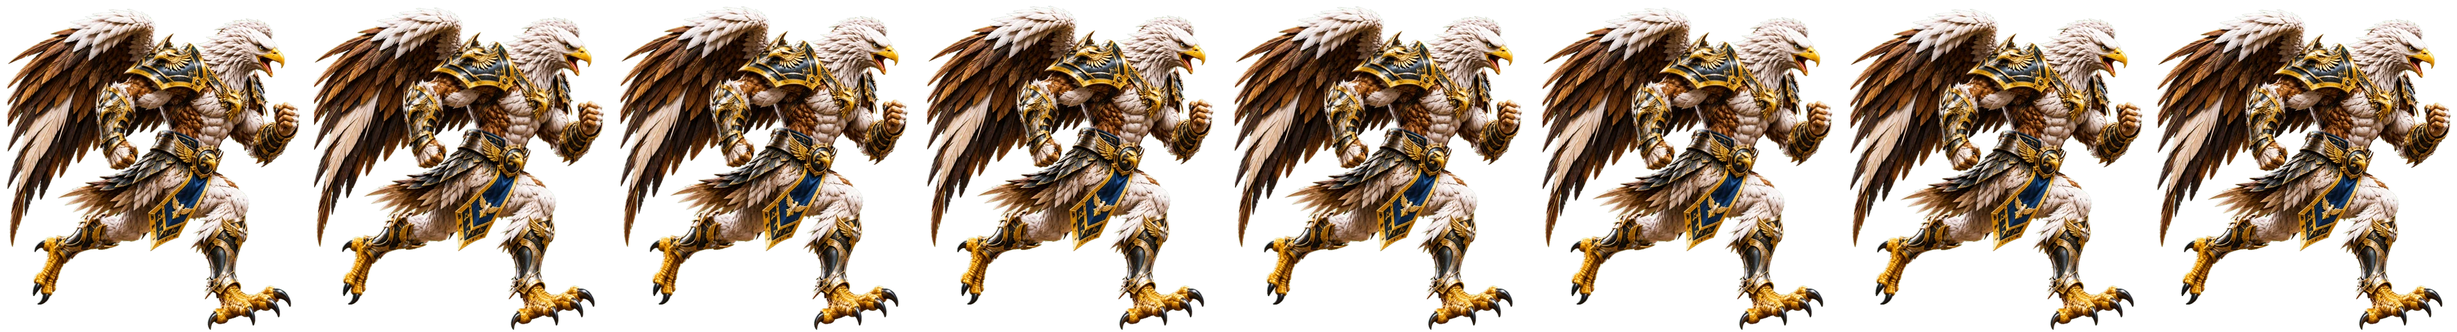
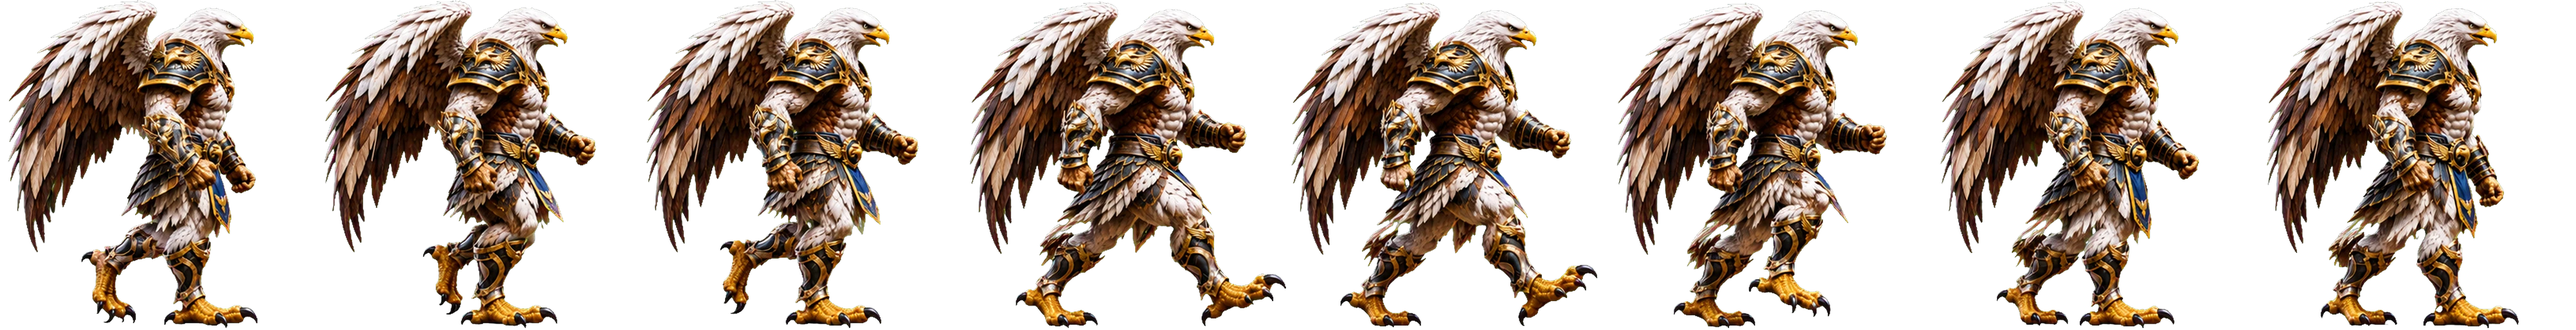
V2 preview 10.27: eagle upgraded moves (not live, still hidden)
Claude-Session: https://claude.ai/code/session_01Wp8cgZvzavvyA9CxcdgKRp

diff --git a/game/js/sprites-hd.js b/game/js/sprites-hd.js
@@ -1,2 +1,2 @@
 // High-detail fighter frames (frames-hd/), used on large/sharp screens. Same layout as SPRITES.
-const SPRITES_HD={"badger":{"s":2.0,"anims":{"idle":[16,363,425,20,211],"walk_forward":[8,301,413,70,205],"walk_back":[8,301,413,70,205],"run":[8,301,413,70,205],"block":[6,374,428,21,212],"attack_light":[8,423,419,103,208],"bite":[8,364,423,92,210],"claw_swipe":[6,423,419,103,208],"attack_heavy":[8,375,518,92,257],"uppercut":[8,423,419,103,208],"pounce":[8,364,423,92,210],"special_earth_slam":[7,375,518,92,257],"shadow_rampage":[10,423,419,103,208],"victory":[8,283,476,70,236],"jump":[7,370,409,96,203],"crouch":[4,370,409,96,203],"hit_light":[4,363,423,20,210],"hit_heavy":[6,363,423,20,210],"knockdown":[9,586,417,85,207],"knockdown_getup":[6,339,413,86,205],"defeat":[5,586,417,85,207]}},"crocodile":{"s":2.0,"anims":{"idle":[16,658,534,187,264],"walk_forward":[8,608,531,178,263],"walk_back":[8,608,531,178,263],"run":[8,608,531,178,263],"block":[6,617,527,168,261],"attack_light":[8,751,527,215,261],"bite":[8,682,533,187,264],"special_pounce":[6,751,527,215,261],"attack_heavy":[8,848,567,214,281],"uppercut":[7,848,567,214,281],"victory":[8,559,554,150,274],"jump":[7,794,476,233,235],"hit_light":[4,653,531,187,263],"hit_heavy":[6,653,531,187,263],"knockdown":[9,975,530,141,263],"knockdown_getup":[6,1340,513,355,254],"defeat":[5,975,530,141,263]}},"elephant":{"s":2.0,"anims":{"idle":[16,725,684,177,339],"walk_forward":[8,788,690,175,341],"walk_back":[8,788,690,175,341],"run":[8,788,690,175,341],"block":[6,717,696,179,344],"attack_light":[8,1010,683,214,338],"bite":[8,768,683,185,338],"special_pounce":[6,1010,683,214,338],"attack_heavy":[8,1018,727,253,360],"uppercut":[7,1018,727,253,360],"victory":[8,768,683,185,338],"jump":[7,717,696,179,344],"hit_light":[4,724,682,178,337],"hit_heavy":[6,724,682,178,337],"knockdown":[9,1092,696,385,345],"knockdown_getup":[6,1092,696,385,345],"defeat":[5,1092,696,385,345]}},"grizzly":{"s":2.0,"anims":{"idle":[16,484,632,126,314],"walk_forward":[8,561,633,92,314],"walk_back":[8,561,633,92,314],"run":[8,561,633,92,314],"block":[6,518,624,129,310],"attack_light":[8,587,631,161,313],"bite":[8,511,630,132,313],"special_pounce":[6,587,631,161,313],"attack_heavy":[8,570,632,142,314],"uppercut":[7,570,632,142,314],"victory":[8,570,632,142,314],"jump":[7,518,624,129,310],"hit_light":[4,485,629,127,312],"hit_heavy":[6,485,629,127,312],"knockdown":[9,804,634,94,315],"knockdown_getup":[6,804,634,94,315],"defeat":[5,804,634,94,315]}},"hippo":{"s":2.0,"anims":{"idle":[16,743,653,181,323],"walk_forward":[8,458,633,110,313],"walk_back":[8,458,633,110,313],"run":[8,458,633,110,313],"block":[6,684,640,170,316],"attack_light":[8,1009,649,213,321],"bite":[8,788,652,189,323],"special_pounce":[6,1009,649,213,321],"attack_heavy":[8,571,745,156,369],"uppercut":[7,571,745,156,369],"victory":[8,486,742,120,368],"jump":[7,532,648,126,320],"hit_light":[4,747,650,184,322],"hit_heavy":[6,747,650,184,322],"knockdown":[9,1058,681,164,338],"knockdown_getup":[6,552,632,123,312],"defeat":[5,1058,681,164,338]}},"hyena":{"s":2.0,"anims":{"idle":[16,337,491,83,243],"walk_forward":[8,397,486,111,241],"walk_back":[8,397,486,111,241],"run":[8,397,486,111,241],"block":[6,400,486,100,241],"attack_light":[8,451,479,112,238],"bite":[8,355,489,87,243],"special_pounce":[6,355,489,87,243],"attack_heavy":[8,398,431,99,214],"uppercut":[7,451,479,112,238],"victory":[8,355,489,87,243],"jump":[7,400,486,100,241],"hit_light":[4,338,488,84,242],"hit_heavy":[6,338,488,84,242],"knockdown":[9,633,490,78,243],"knockdown_getup":[6,633,490,78,243],"defeat":[5,633,490,78,243]}},"jaguar":{"s":2.0,"anims":{"idle":[16,539,506,129,251],"walk_forward":[8,406,473,72,234],"walk_back":[8,406,473,72,234],"run":[8,406,473,72,234],"block":[6,354,501,25,248],"attack_light":[8,483,488,131,242],"bite":[8,558,504,129,250],"special_pounce":[6,483,488,131,242],"attack_heavy":[8,581,421,132,208],"uppercut":[7,581,421,132,208],"victory":[8,558,504,129,250],"jump":[7,354,501,25,248],"hit_light":[4,537,504,128,250],"hit_heavy":[6,537,504,128,250],"knockdown":[9,719,518,244,257],"knockdown_getup":[6,719,518,244,257],"defeat":[5,719,518,244,257]}},"leopard":{"s":2.0,"anims":{"idle":[16,471,515,22,255],"walk_forward":[8,307,485,87,240],"walk_back":[8,307,485,87,240],"run":[8,307,485,87,240],"dash":[4,307,485,87,240],"crouch":[3,428,517,102,256],"block":[6,443,509,31,253],"attack_light":[8,482,494,122,245],"bite":[8,482,514,22,255],"special_pounce":[6,482,494,122,245],"special_b":[8,482,514,22,255],"special_c":[5,482,494,122,245],"special_d":[14,482,494,122,245],"ultra_move":[5,452,555,97,276],"attack_heavy":[8,452,555,97,276],"uppercut":[7,452,555,97,276],"victory":[8,375,543,102,269],"jump":[7,428,517,102,256],"hit_light":[4,470,513,22,255],"hit_heavy":[6,470,513,22,255],"knockdown":[9,868,555,240,276],"knockdown_getup":[6,432,450,101,223],"defeat":[5,868,555,240,276]}},"lion":{"s":2.0,"anims":{"idle":[16,386,563,98,271],"walk_forward":[8,239,525,65,261],"walk_back":[8,239,525,65,261],"run":[8,239,525,65,261],"block":[6,382,412,96,204],"attack_light":[8,740,471,151,234],"bite":[8,740,471,151,234],"special_pounce":[6,740,471,151,234],"attack_heavy":[8,463,623,109,309],"uppercut":[7,463,623,109,309],"victory":[8,357,530,91,263],"jump":[7,452,422,111,209],"hit_light":[4,367,533,94,265],"hit_heavy":[6,367,533,94,265],"knockdown":[9,694,536,268,267],"knockdown_getup":[5,751,565,269,271],"defeat":[5,694,536,268,267]}},"tiger":{"s":2.0,"anims":{"idle":[16,499,538,126,267],"walk_forward":[8,508,526,125,261],"walk_back":[8,508,526,125,261],"run":[8,508,526,125,261],"block":[6,483,530,120,263],"attack_light":[8,520,524,132,260],"bite":[8,518,537,127,266],"special_pounce":[6,520,524,132,260],"attack_heavy":[8,713,548,164,272],"uppercut":[7,713,548,164,272],"victory":[8,459,544,114,270],"jump":[7,623,588,160,292],"hit_light":[4,496,536,126,266],"hit_heavy":[6,496,536,126,266],"knockdown":[9,750,543,261,270],"knockdown_getup":[6,600,526,141,261],"defeat":[5,750,543,261,270]}},"wolf":{"s":2.0,"anims":{"idle":[16,409,498,107,247],"walk_forward":[8,467,408,96,202],"walk_back":[8,467,408,96,202],"run":[8,467,408,96,202],"block":[6,404,490,104,244],"attack_light":[8,445,398,123,197],"bite":[8,447,340,119,168],"special_pounce":[6,447,340,119,168],"attack_heavy":[8,363,395,93,196],"uppercut":[7,363,395,93,196],"victory":[8,447,340,119,168],"jump":[7,404,490,104,244],"hit_light":[4,404,497,104,247],"hit_heavy":[6,404,497,104,247],"knockdown":[9,670,503,243,250],"knockdown_getup":[6,670,503,243,250],"defeat":[5,670,503,243,250]}},"majic":{"s":2.0,"anims":{"idle":[16,742,799,187,396],"walk_forward":[8,818,805,185,399],"walk_back":[8,818,805,185,399],"run":[8,818,805,185,399],"dash":[4,818,805,185,399],"crouch":[3,783,702,200,348],"block":[6,739,792,62,393],"attack_light":[8,808,714,216,354],"bite":[8,773,798,193,396],"special_pounce":[6,773,798,193,396],"special_b":[6,808,714,216,354],"special_c":[5,773,798,193,396],"special_d":[5,749,763,180,379],"ultra_move":[10,808,714,216,354],"attack_heavy":[8,749,763,180,379],"uppercut":[7,749,763,180,379],"victory":[8,823,812,205,403],"jump":[7,783,702,200,348],"hit_light":[4,746,795,190,395],"hit_heavy":[6,746,795,190,395],"knockdown":[9,1082,819,398,407],"knockdown_getup":[6,793,780,206,387],"defeat":[5,1082,819,398,407]}},"snake":{"s":2.0,"anims":{"idle":[16,498,552,122,274],"walk_forward":[8,525,525,147,261],"walk_back":[8,525,525,147,261],"run":[8,525,525,147,261],"crouch":[3,533,495,126,245],"block":[6,469,547,25,272],"attack_light":[8,532,537,123,267],"bite":[8,498,551,122,274],"special_pounce":[6,498,551,122,274],"special_b":[6,532,537,123,267],"special_c":[5,498,551,122,274],"special_d":[5,600,546,143,271],"ultra_move":[10,532,537,123,267],"attack_heavy":[8,600,546,143,271],"uppercut":[7,600,546,143,271],"victory":[8,412,570,105,283],"jump":[7,533,495,126,245],"hit_light":[4,498,550,122,273],"hit_heavy":[6,498,550,122,273],"knockdown":[9,778,548,271,272],"knockdown_getup":[6,609,538,125,267],"defeat":[5,778,548,271,272]}},"eagle":{"s":2.0,"anims":{"idle":[16,486,526,121,261],"walk_forward":[8,478,518,190,257],"walk_back":[8,478,518,190,257],"run":[8,478,518,190,257],"crouch":[3,483,520,108,258],"block":[6,483,520,108,258],"attack_light":[8,500,526,124,261],"bite":[8,502,525,125,260],"special_pounce":[6,502,525,125,260],"special_b":[6,500,526,124,261],"ultra_move":[10,500,526,124,261],"attack_heavy":[8,497,530,123,263],"uppercut":[7,497,530,123,263],"victory":[8,486,526,121,261],"jump":[7,483,520,108,258],"hit_light":[4,487,522,122,259],"hit_heavy":[6,487,522,122,259],"knockdown":[9,692,536,255,266],"knockdown_getup":[6,692,536,255,266],"defeat":[5,692,536,255,266]}},"stag":{"s":2.0,"anims":{"idle":[16,341,572,85,283],"walk_forward":[8,450,569,111,282],"walk_back":[8,450,569,111,282],"run":[8,450,569,111,282],"crouch":[3,543,734,154,365],"block":[6,453,553,113,274],"attack_light":[8,539,540,118,268],"bite":[8,358,571,85,283],"special_pounce":[6,358,571,85,283],"special_b":[6,539,540,118,268],"special_c":[5,358,571,85,283],"special_d":[5,453,612,113,304],"ultra_move":[10,539,540,118,268],"attack_heavy":[8,453,612,113,304],"uppercut":[7,453,612,113,304],"victory":[8,512,565,127,280],"jump":[7,543,734,154,365],"hit_light":[4,341,570,85,282],"hit_heavy":[6,341,570,85,282],"knockdown":[9,734,584,285,290],"knockdown_getup":[6,507,558,164,277],"defeat":[5,734,584,285,290]}}};
+const SPRITES_HD={"badger":{"s":2.0,"anims":{"idle":[16,363,425,20,211],"walk_forward":[8,301,413,70,205],"walk_back":[8,301,413,70,205],"run":[8,301,413,70,205],"block":[6,374,428,21,212],"attack_light":[8,423,419,103,208],"bite":[8,364,423,92,210],"claw_swipe":[6,423,419,103,208],"attack_heavy":[8,375,518,92,257],"uppercut":[8,423,419,103,208],"pounce":[8,364,423,92,210],"special_earth_slam":[7,375,518,92,257],"shadow_rampage":[10,423,419,103,208],"victory":[8,283,476,70,236],"jump":[7,370,409,96,203],"crouch":[4,370,409,96,203],"hit_light":[4,363,423,20,210],"hit_heavy":[6,363,423,20,210],"knockdown":[9,586,417,85,207],"knockdown_getup":[6,339,413,86,205],"defeat":[5,586,417,85,207]}},"crocodile":{"s":2.0,"anims":{"idle":[16,658,534,187,264],"walk_forward":[8,608,531,178,263],"walk_back":[8,608,531,178,263],"run":[8,608,531,178,263],"block":[6,617,527,168,261],"attack_light":[8,751,527,215,261],"bite":[8,682,533,187,264],"special_pounce":[6,751,527,215,261],"attack_heavy":[8,848,567,214,281],"uppercut":[7,848,567,214,281],"victory":[8,559,554,150,274],"jump":[7,794,476,233,235],"hit_light":[4,653,531,187,263],"hit_heavy":[6,653,531,187,263],"knockdown":[9,975,530,141,263],"knockdown_getup":[6,1340,513,355,254],"defeat":[5,975,530,141,263]}},"elephant":{"s":2.0,"anims":{"idle":[16,725,684,177,339],"walk_forward":[8,788,690,175,341],"walk_back":[8,788,690,175,341],"run":[8,788,690,175,341],"block":[6,717,696,179,344],"attack_light":[8,1010,683,214,338],"bite":[8,768,683,185,338],"special_pounce":[6,1010,683,214,338],"attack_heavy":[8,1018,727,253,360],"uppercut":[7,1018,727,253,360],"victory":[8,768,683,185,338],"jump":[7,717,696,179,344],"hit_light":[4,724,682,178,337],"hit_heavy":[6,724,682,178,337],"knockdown":[9,1092,696,385,345],"knockdown_getup":[6,1092,696,385,345],"defeat":[5,1092,696,385,345]}},"grizzly":{"s":2.0,"anims":{"idle":[16,484,632,126,314],"walk_forward":[8,561,633,92,314],"walk_back":[8,561,633,92,314],"run":[8,561,633,92,314],"block":[6,518,624,129,310],"attack_light":[8,587,631,161,313],"bite":[8,511,630,132,313],"special_pounce":[6,587,631,161,313],"attack_heavy":[8,570,632,142,314],"uppercut":[7,570,632,142,314],"victory":[8,570,632,142,314],"jump":[7,518,624,129,310],"hit_light":[4,485,629,127,312],"hit_heavy":[6,485,629,127,312],"knockdown":[9,804,634,94,315],"knockdown_getup":[6,804,634,94,315],"defeat":[5,804,634,94,315]}},"hippo":{"s":2.0,"anims":{"idle":[16,743,653,181,323],"walk_forward":[8,458,633,110,313],"walk_back":[8,458,633,110,313],"run":[8,458,633,110,313],"block":[6,684,640,170,316],"attack_light":[8,1009,649,213,321],"bite":[8,788,652,189,323],"special_pounce":[6,1009,649,213,321],"attack_heavy":[8,571,745,156,369],"uppercut":[7,571,745,156,369],"victory":[8,486,742,120,368],"jump":[7,532,648,126,320],"hit_light":[4,747,650,184,322],"hit_heavy":[6,747,650,184,322],"knockdown":[9,1058,681,164,338],"knockdown_getup":[6,552,632,123,312],"defeat":[5,1058,681,164,338]}},"hyena":{"s":2.0,"anims":{"idle":[16,337,491,83,243],"walk_forward":[8,397,486,111,241],"walk_back":[8,397,486,111,241],"run":[8,397,486,111,241],"block":[6,400,486,100,241],"attack_light":[8,451,479,112,238],"bite":[8,355,489,87,243],"special_pounce":[6,355,489,87,243],"attack_heavy":[8,398,431,99,214],"uppercut":[7,451,479,112,238],"victory":[8,355,489,87,243],"jump":[7,400,486,100,241],"hit_light":[4,338,488,84,242],"hit_heavy":[6,338,488,84,242],"knockdown":[9,633,490,78,243],"knockdown_getup":[6,633,490,78,243],"defeat":[5,633,490,78,243]}},"jaguar":{"s":2.0,"anims":{"idle":[16,539,506,129,251],"walk_forward":[8,406,473,72,234],"walk_back":[8,406,473,72,234],"run":[8,406,473,72,234],"block":[6,354,501,25,248],"attack_light":[8,483,488,131,242],"bite":[8,558,504,129,250],"special_pounce":[6,483,488,131,242],"attack_heavy":[8,581,421,132,208],"uppercut":[7,581,421,132,208],"victory":[8,558,504,129,250],"jump":[7,354,501,25,248],"hit_light":[4,537,504,128,250],"hit_heavy":[6,537,504,128,250],"knockdown":[9,719,518,244,257],"knockdown_getup":[6,719,518,244,257],"defeat":[5,719,518,244,257]}},"leopard":{"s":2.0,"anims":{"idle":[16,471,515,22,255],"walk_forward":[8,307,485,87,240],"walk_back":[8,307,485,87,240],"run":[8,307,485,87,240],"dash":[4,307,485,87,240],"crouch":[3,428,517,102,256],"block":[6,443,509,31,253],"attack_light":[8,482,494,122,245],"bite":[8,482,514,22,255],"special_pounce":[6,482,494,122,245],"special_b":[8,482,514,22,255],"special_c":[5,482,494,122,245],"special_d":[14,482,494,122,245],"ultra_move":[5,452,555,97,276],"attack_heavy":[8,452,555,97,276],"uppercut":[7,452,555,97,276],"victory":[8,375,543,102,269],"jump":[7,428,517,102,256],"hit_light":[4,470,513,22,255],"hit_heavy":[6,470,513,22,255],"knockdown":[9,868,555,240,276],"knockdown_getup":[6,432,450,101,223],"defeat":[5,868,555,240,276]}},"lion":{"s":2.0,"anims":{"idle":[16,386,563,98,271],"walk_forward":[8,239,525,65,261],"walk_back":[8,239,525,65,261],"run":[8,239,525,65,261],"block":[6,382,412,96,204],"attack_light":[8,740,471,151,234],"bite":[8,740,471,151,234],"special_pounce":[6,740,471,151,234],"attack_heavy":[8,463,623,109,309],"uppercut":[7,463,623,109,309],"victory":[8,357,530,91,263],"jump":[7,452,422,111,209],"hit_light":[4,367,533,94,265],"hit_heavy":[6,367,533,94,265],"knockdown":[9,694,536,268,267],"knockdown_getup":[5,751,565,269,271],"defeat":[5,694,536,268,267]}},"tiger":{"s":2.0,"anims":{"idle":[16,499,538,126,267],"walk_forward":[8,508,526,125,261],"walk_back":[8,508,526,125,261],"run":[8,508,526,125,261],"block":[6,483,530,120,263],"attack_light":[8,520,524,132,260],"bite":[8,518,537,127,266],"special_pounce":[6,520,524,132,260],"attack_heavy":[8,713,548,164,272],"uppercut":[7,713,548,164,272],"victory":[8,459,544,114,270],"jump":[7,623,588,160,292],"hit_light":[4,496,536,126,266],"hit_heavy":[6,496,536,126,266],"knockdown":[9,750,543,261,270],"knockdown_getup":[6,600,526,141,261],"defeat":[5,750,543,261,270]}},"wolf":{"s":2.0,"anims":{"idle":[16,409,498,107,247],"walk_forward":[8,467,408,96,202],"walk_back":[8,467,408,96,202],"run":[8,467,408,96,202],"block":[6,404,490,104,244],"attack_light":[8,445,398,123,197],"bite":[8,447,340,119,168],"special_pounce":[6,447,340,119,168],"attack_heavy":[8,363,395,93,196],"uppercut":[7,363,395,93,196],"victory":[8,447,340,119,168],"jump":[7,404,490,104,244],"hit_light":[4,404,497,104,247],"hit_heavy":[6,404,497,104,247],"knockdown":[9,670,503,243,250],"knockdown_getup":[6,670,503,243,250],"defeat":[5,670,503,243,250]}},"majic":{"s":2.0,"anims":{"idle":[16,742,799,187,396],"walk_forward":[8,818,805,185,399],"walk_back":[8,818,805,185,399],"run":[8,818,805,185,399],"dash":[4,818,805,185,399],"crouch":[3,783,702,200,348],"block":[6,739,792,62,393],"attack_light":[8,808,714,216,354],"bite":[8,773,798,193,396],"special_pounce":[6,773,798,193,396],"special_b":[6,808,714,216,354],"special_c":[5,773,798,193,396],"special_d":[5,749,763,180,379],"ultra_move":[10,808,714,216,354],"attack_heavy":[8,749,763,180,379],"uppercut":[7,749,763,180,379],"victory":[8,823,812,205,403],"jump":[7,783,702,200,348],"hit_light":[4,746,795,190,395],"hit_heavy":[6,746,795,190,395],"knockdown":[9,1082,819,398,407],"knockdown_getup":[6,793,780,206,387],"defeat":[5,1082,819,398,407]}},"snake":{"s":2.0,"anims":{"idle":[16,498,552,122,274],"walk_forward":[8,525,525,147,261],"walk_back":[8,525,525,147,261],"run":[8,525,525,147,261],"crouch":[3,533,495,126,245],"block":[6,469,547,25,272],"attack_light":[8,532,537,123,267],"bite":[8,498,551,122,274],"special_pounce":[6,498,551,122,274],"special_b":[6,532,537,123,267],"special_c":[5,498,551,122,274],"special_d":[5,600,546,143,271],"ultra_move":[10,532,537,123,267],"attack_heavy":[8,600,546,143,271],"uppercut":[7,600,546,143,271],"victory":[8,412,570,105,283],"jump":[7,533,495,126,245],"hit_light":[4,498,550,122,273],"hit_heavy":[6,498,550,122,273],"knockdown":[9,778,548,271,272],"knockdown_getup":[6,609,538,125,267],"defeat":[5,778,548,271,272]}},"eagle":{"s":2.0,"anims":{"idle":[16,486,526,121,261],"walk_forward":[8,501,514,100,255],"walk_back":[8,501,514,100,255],"run":[8,501,514,100,255],"crouch":[3,681,479,179,237],"block":[6,483,520,108,258],"attack_light":[8,500,526,124,261],"bite":[8,502,525,125,260],"special_pounce":[6,502,525,125,260],"special_b":[6,500,526,124,261],"ultra_move":[10,500,526,124,261],"attack_heavy":[8,603,494,151,245],"uppercut":[7,603,494,151,245],"victory":[8,550,541,139,269],"jump":[7,681,479,179,237],"hit_light":[4,487,522,122,259],"hit_heavy":[6,487,522,122,259],"knockdown":[9,692,536,255,266],"knockdown_getup":[6,480,513,99,255],"defeat":[5,692,536,255,266]}},"stag":{"s":2.0,"anims":{"idle":[16,341,572,85,283],"walk_forward":[8,450,569,111,282],"walk_back":[8,450,569,111,282],"run":[8,450,569,111,282],"crouch":[3,543,734,154,365],"block":[6,453,553,113,274],"attack_light":[8,539,540,118,268],"bite":[8,358,571,85,283],"special_pounce":[6,358,571,85,283],"special_b":[6,539,540,118,268],"special_c":[5,358,571,85,283],"special_d":[5,453,612,113,304],"ultra_move":[10,539,540,118,268],"attack_heavy":[8,453,612,113,304],"uppercut":[7,453,612,113,304],"victory":[8,512,565,127,280],"jump":[7,543,734,154,365],"hit_light":[4,341,570,85,282],"hit_heavy":[6,341,570,85,282],"knockdown":[9,734,584,285,290],"knockdown_getup":[6,507,558,164,277],"defeat":[5,734,584,285,290]}}};

diff --git a/game/js/game.js b/game/js/game.js
@@ -1664,9 +1664,9 @@ const SPRITES={
  snake:{s:0.6,anims:{"idle":[16,149,166,122,274],"walk_forward":[8,158,158,147,261],"walk_back":[8,158,158,147,261],"run":[8,158,158,147,261],"crouch":[3,160,148,126,245],"block":[6,141,164,25,272],"attack_light":[8,160,161,123,267],"bite":[8,149,165,122,274],"special_pounce":[6,149,165,122,274],"special_b":[6,160,161,123,267],"special_c":[5,149,165,122,274],"special_d":[5,180,164,143,271],"ultra_move":[10,160,161,123,267],"attack_heavy":[8,180,164,143,271],"uppercut":[7,180,164,143,271],"victory":[8,124,171,105,283],"jump":[7,160,148,126,245],"hit_light":[4,149,165,122,273],"hit_heavy":[6,149,165,122,273],"knockdown":[9,233,164,271,272],"knockdown_getup":[6,183,161,125,267],"defeat":[5,233,164,271,272]},
   double:['attack_heavy','attack_light'],special:'special_pounce',shadow:'special_b',ultra:['ultra_move','attack_heavy','bite','uppercut'],
   fall:['knockdown',[0,1,2,3,4,5]],getup:['knockdown_getup',[0,1,2,3,4,5]],ko:['knockdown',8]},
- eagle:{s:0.6,anims:{"idle":[16,146,158,121,261],"walk_forward":[8,143,155,190,257],"walk_back":[8,143,155,190,257],"run":[8,143,155,190,257],"crouch":[3,145,156,108,258],"block":[6,145,156,108,258],"attack_light":[8,150,158,124,261],"bite":[8,151,157,125,260],"special_pounce":[6,151,157,125,260],"special_b":[6,150,158,124,261],"ultra_move":[10,150,158,124,261],"attack_heavy":[8,149,159,123,263],"uppercut":[7,149,159,123,263],"victory":[8,146,158,121,261],"jump":[7,145,156,108,258],"hit_light":[4,146,157,122,259],"hit_heavy":[6,146,157,122,259],"knockdown":[9,208,161,255,266],"knockdown_getup":[6,208,161,255,266],"defeat":[5,208,161,255,266]},
+ eagle:{s:0.6,anims:{"idle":[16,146,158,121,261],"walk_forward":[8,150,154,100,255],"walk_back":[8,150,154,100,255],"run":[8,150,154,100,255],"crouch":[3,204,144,179,237],"block":[6,145,156,108,258],"attack_light":[8,150,158,124,261],"bite":[8,151,157,125,260],"special_pounce":[6,151,157,125,260],"special_b":[6,150,158,124,261],"ultra_move":[10,150,158,124,261],"attack_heavy":[8,181,148,151,245],"uppercut":[7,181,148,151,245],"victory":[8,165,162,139,269],"jump":[7,204,144,179,237],"hit_light":[4,146,157,122,259],"hit_heavy":[6,146,157,122,259],"knockdown":[9,208,161,255,266],"knockdown_getup":[6,144,154,99,255],"defeat":[5,208,161,255,266]},
   double:['attack_light','attack_heavy','special_b'],special:'special_pounce',shadow:'special_b',ultra:['ultra_move','attack_heavy','bite','uppercut'],
-  fall:['knockdown',[0,1,2,3,4,5]],getup:['knockdown',[7,3,2,1,0]],ko:['knockdown',8]},
+  fall:['knockdown',[0,1,2,3,4,5]],getup:['knockdown_getup',[0,1,2,3,4,5]],ko:['knockdown',8]},
  stag:{s:0.6,anims:{"idle":[16,102,171,85,283],"walk_forward":[8,135,171,111,282],"walk_back":[8,135,171,111,282],"run":[8,135,171,111,282],"crouch":[3,163,220,154,365],"block":[6,136,166,113,274],"attack_light":[8,162,162,118,268],"bite":[8,107,171,85,283],"special_pounce":[6,107,171,85,283],"special_b":[6,162,162,118,268],"special_c":[5,107,171,85,283],"special_d":[5,136,184,113,304],"ultra_move":[10,162,162,118,268],"attack_heavy":[8,136,184,113,304],"uppercut":[7,136,184,113,304],"victory":[8,154,169,127,280],"jump":[7,163,220,154,365],"hit_light":[4,102,171,85,282],"hit_heavy":[6,102,171,85,282],"knockdown":[9,220,175,285,290],"knockdown_getup":[6,152,167,164,277],"defeat":[5,220,175,285,290]},
   double:['attack_heavy','attack_light'],special:'special_pounce',shadow:'special_b',ultra:['ultra_move','attack_heavy','bite','uppercut'],
   fall:['knockdown',[0,1,2,3,4,5]],getup:['knockdown_getup',[0,1,2,3,4,5]],ko:['knockdown',8]},
@@ -1707,11 +1707,11 @@ const SPRITES={
   double:['attack_heavy','attack_light'],special:'special_pounce',shadow:null,ultra:['attack_light','attack_heavy','uppercut','bite'],
   fall:['knockdown',[0,1,2,3,4,5]],getup:['knockdown',[7,3,2,1,0]],ko:['knockdown',8]}
 };
-const spriteImg={};for(const id in SPRITES){spriteImg[id]={};for(const k in SPRITES[id].anims){const im=new Image();im.src='assets/characters/'+id+'/frames/'+k+'.webp?v=10.26';spriteImg[id][k]=im}}
+const spriteImg={};for(const id in SPRITES){spriteImg[id]={};for(const k in SPRITES[id].anims){const im=new Image();im.src='assets/characters/'+id+'/frames/'+k+'.webp?v=10.27';spriteImg[id][k]=im}}
 // High-detail art for big, sharp screens (laptops, TVs, 4K): loaded per fight, only for the two fighters in it.
 const HD=typeof SPRITES_HD!=='undefined'?SPRITES_HD:{},spriteHD={};
 function wantHD(){const r=$('game-canvas').getBoundingClientRect(),d=Math.min(window.devicePixelRatio||1,3);return r.height*d>=560}
-function loadHD(id){if(!HD[id]||spriteHD[id])return;spriteHD[id]={};for(const k in HD[id].anims){const im=new Image();im.decoding='async';im.src='assets/characters/'+id+'/frames-hd/'+k+'.webp?v=10.26';spriteHD[id][k]=im}}
+function loadHD(id){if(!HD[id]||spriteHD[id])return;spriteHD[id]={};for(const k in HD[id].anims){const im=new Image();im.decoding='async';im.src='assets/characters/'+id+'/frames-hd/'+k+'.webp?v=10.27';spriteHD[id][k]=im}}
 const c=$('game-canvas').getContext('2d');
 function draw(){
  const canvas=$('game-canvas'),rect=canvas.getBoundingClientRect(),dpr=Math.min(window.devicePixelRatio||1,3),w=1100,h=520;

diff --git a/game/index.html b/game/index.html
@@ -17,7 +17,7 @@
   s.addEventListener('pointerdown',go);addEventListener('keydown',function(e){if(!done){go(e)}},{capture:true,once:true});(function pad(){if(done)return;var g=navigator.getGamepads?[].slice.call(navigator.getGamepads()):[];if(g.some(function(x){return x&&x.buttons.some(function(b){return b.pressed})})){go();return}requestAnimationFrame(pad)})()})();</script>
   <div id="backdrop" aria-hidden="true"><div class="bd-img bd-a"></div><div class="bd-img bd-b"></div><div class="bd-rays"></div><div class="bd-vignette"></div><canvas id="bd-embers"></canvas></div>
   <main id="app">
-    <header class="topbar"><img class="brand-crown" src="assets/ui/crown.webp" alt=""><div><div class="eyebrow">A LEGACY UNLEASHED</div><h1>KING OF THE JUNGLE</h1></div><div class="build-tag">V2 PREVIEW · 10.26 (not live)</div></header>
+    <header class="topbar"><img class="brand-crown" src="assets/ui/crown.webp" alt=""><div><div class="eyebrow">A LEGACY UNLEASHED</div><h1>KING OF THE JUNGLE</h1></div><div class="build-tag">V2 PREVIEW · 10.27 (not live)</div></header>
     <section id="menu" class="screen cover">
       <div class="cover-bg"></div><div class="cover-rays"></div><canvas id="embers" class="cover-embers"></canvas><div class="cover-vignette"></div>
       <div class="cover-hero"><div class="hero-glow"></div><img src="assets/characters/lion/lion-hero.webp" alt="The Lion, King of the Jungle"></div>
@@ -42,7 +42,7 @@
         </div>
       </div>
       <div class="cover-roster"><span>11 FIGHTERS · ONE THRONE</span><div id="cover-faces"></div></div>
-      <div class="cover-meta"><span id="cover-build">V2 PREVIEW · 10.26 (not live)</span><span>© King of the Jungle · J. Hardy</span></div>
+      <div class="cover-meta"><span id="cover-build">V2 PREVIEW · 10.27 (not live)</span><span>© King of the Jungle · J. Hardy</span></div>
     </section>
     <section id="select" class="screen hidden v2sel">
       <div class="select-title"><img class="st-crown" src="assets/ui/crown.webp" alt=""><h2 class="st-main">KING <small>OF THE</small> JUNGLE</h2><p class="st-sub">CHARACTER SELECT</p><p id="select-instruction">Player 1: choose a fighter</p></div>
@@ -114,7 +114,7 @@
     </section>
     <footer><span>© KING OF THE JUNGLE</span><span>Created and Developed by J. Hardy</span></footer>
   </main>
-  <script src="js/roster.js?v=7.1"></script><script src="js/story.js?v=7.7"></script><script src="js/sprites-hd.js?v=10.26"></script><script src="js/audio.js?v=9.12"></script><script src="js/hitboxes.js?v=8.0"></script><script src="js/net.js?v=7.1"></script><script src="js/game.js?v=10.26"></script>
+  <script src="js/roster.js?v=7.1"></script><script src="js/story.js?v=7.7"></script><script src="js/sprites-hd.js?v=10.27"></script><script src="js/audio.js?v=9.12"></script><script src="js/hitboxes.js?v=8.0"></script><script src="js/net.js?v=7.1"></script><script src="js/game.js?v=10.27"></script>
 <script>(function(){var last=0;
 document.addEventListener('gesturestart',function(e){e.preventDefault()},{passive:false});
 document.addEventListener('gesturechange',function(e){e.preventDefault()},{passive:false});
